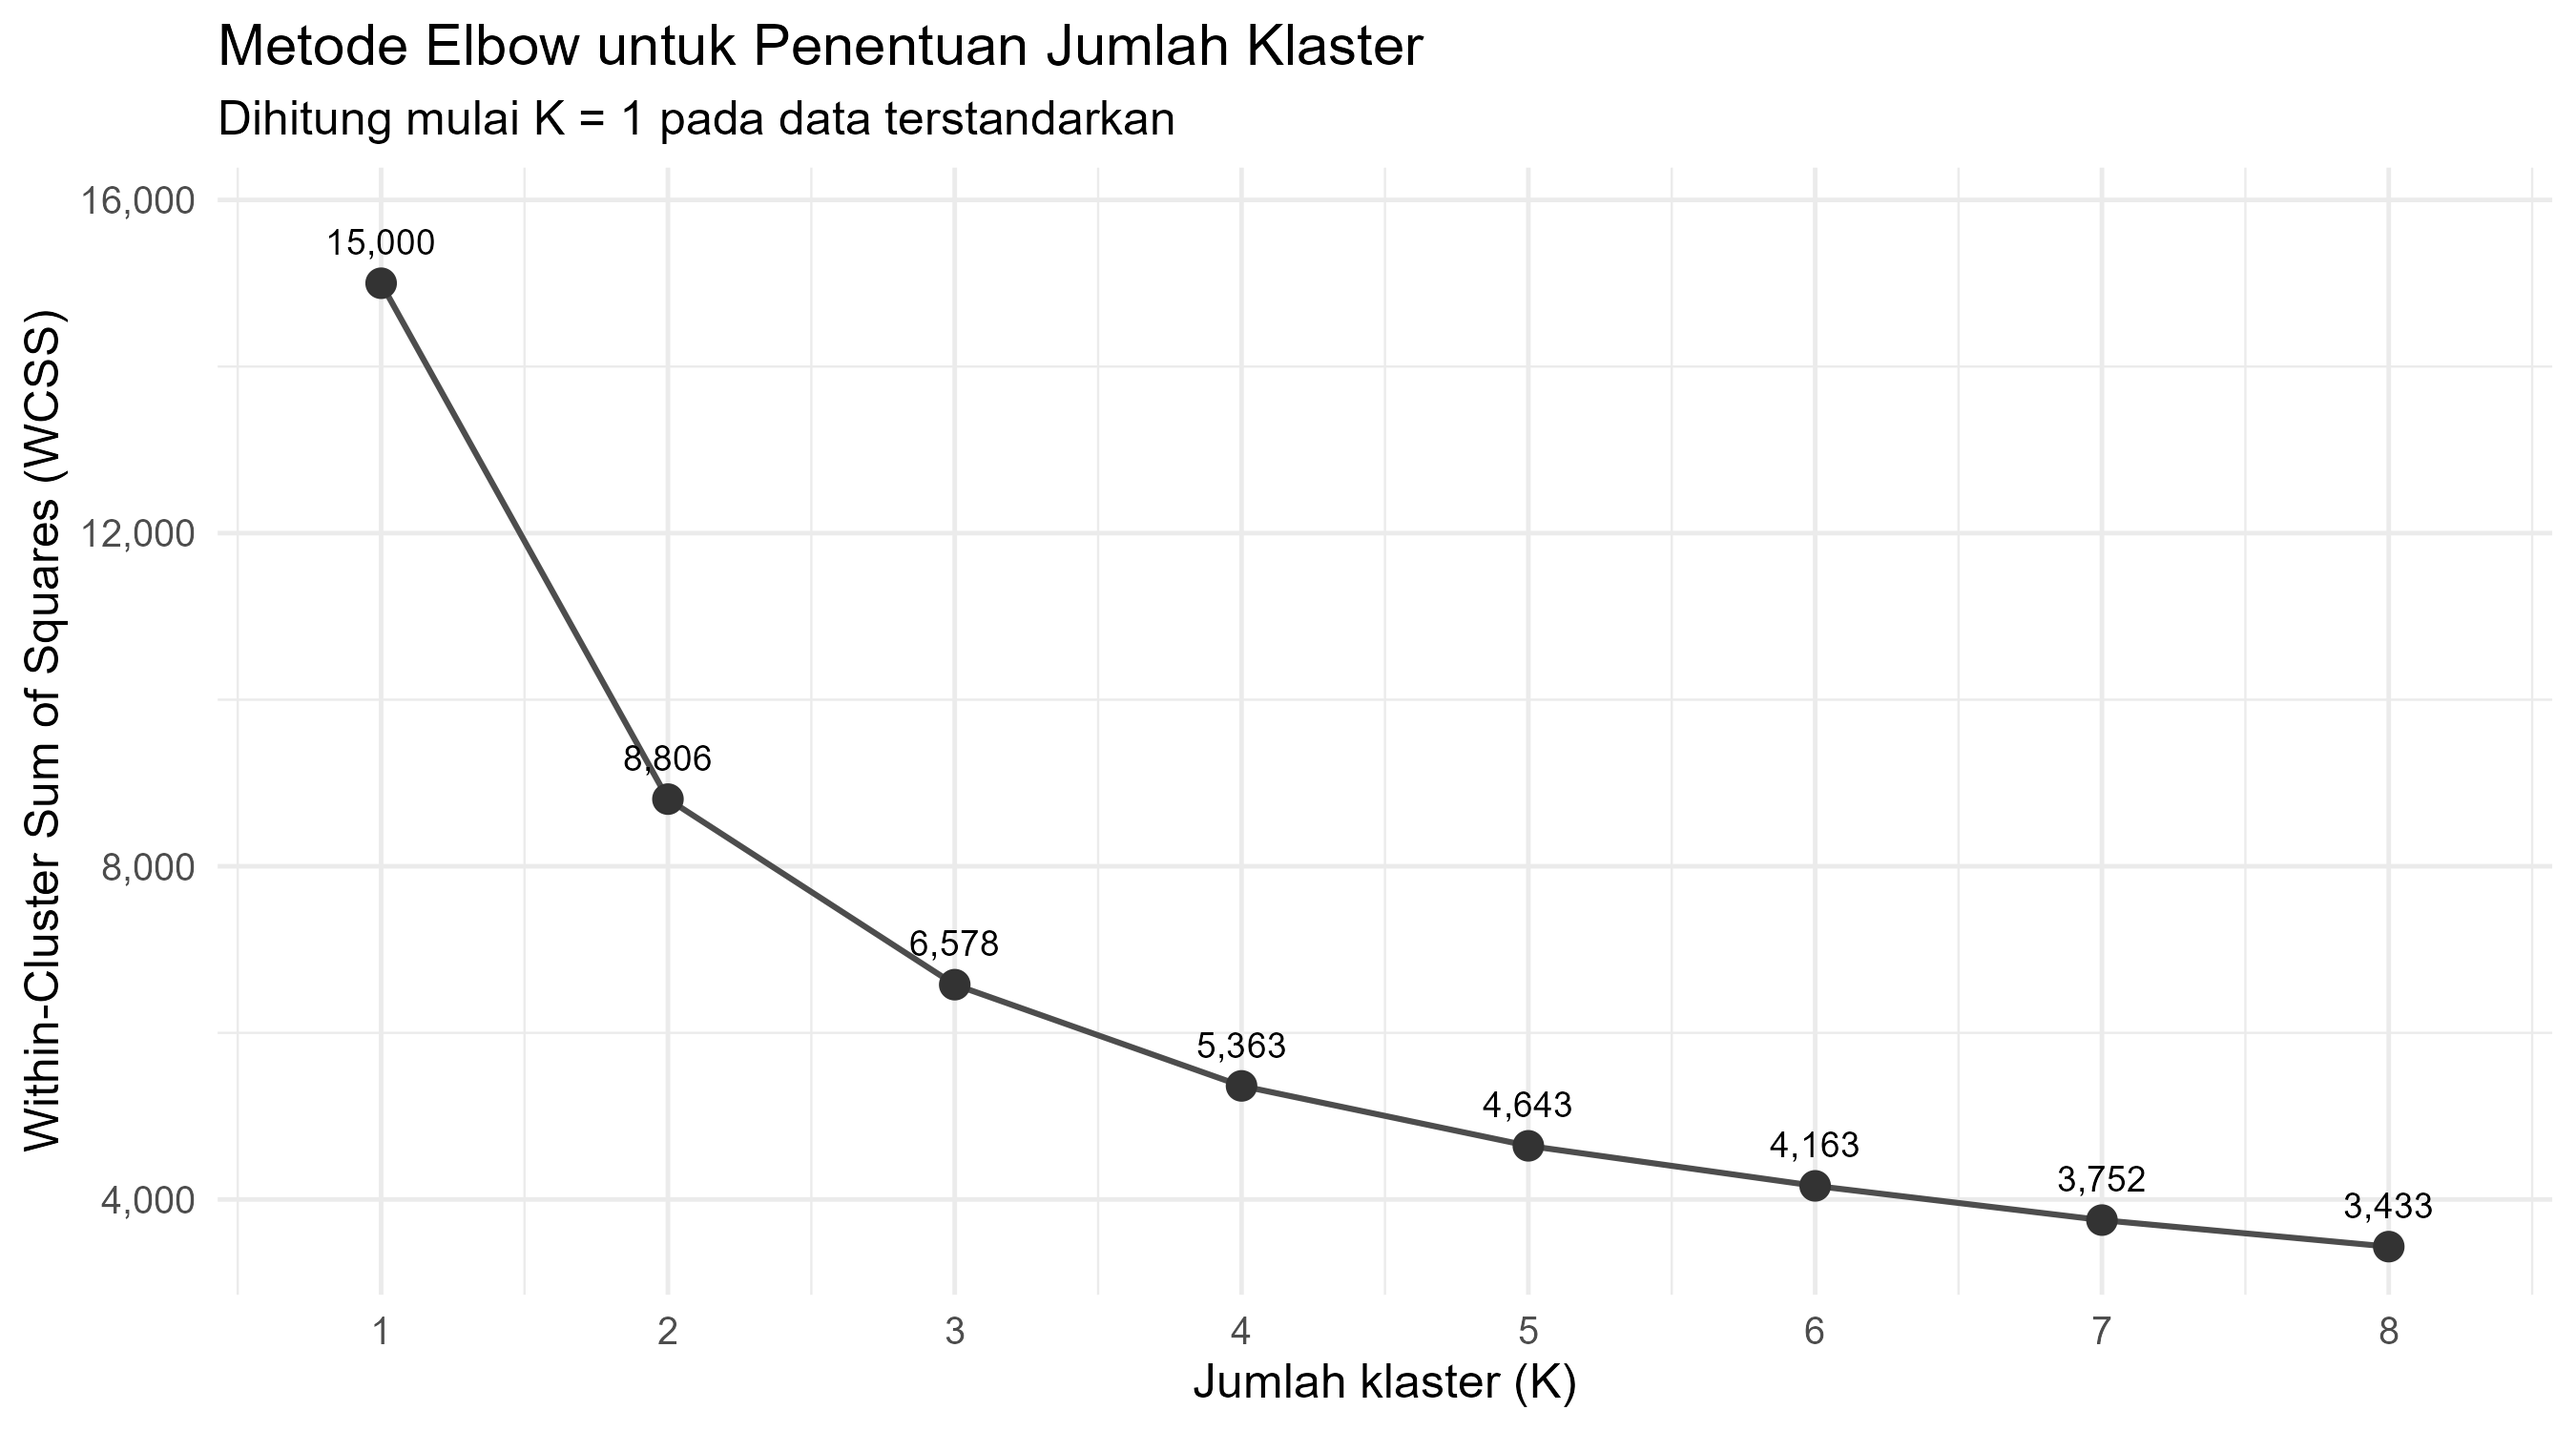
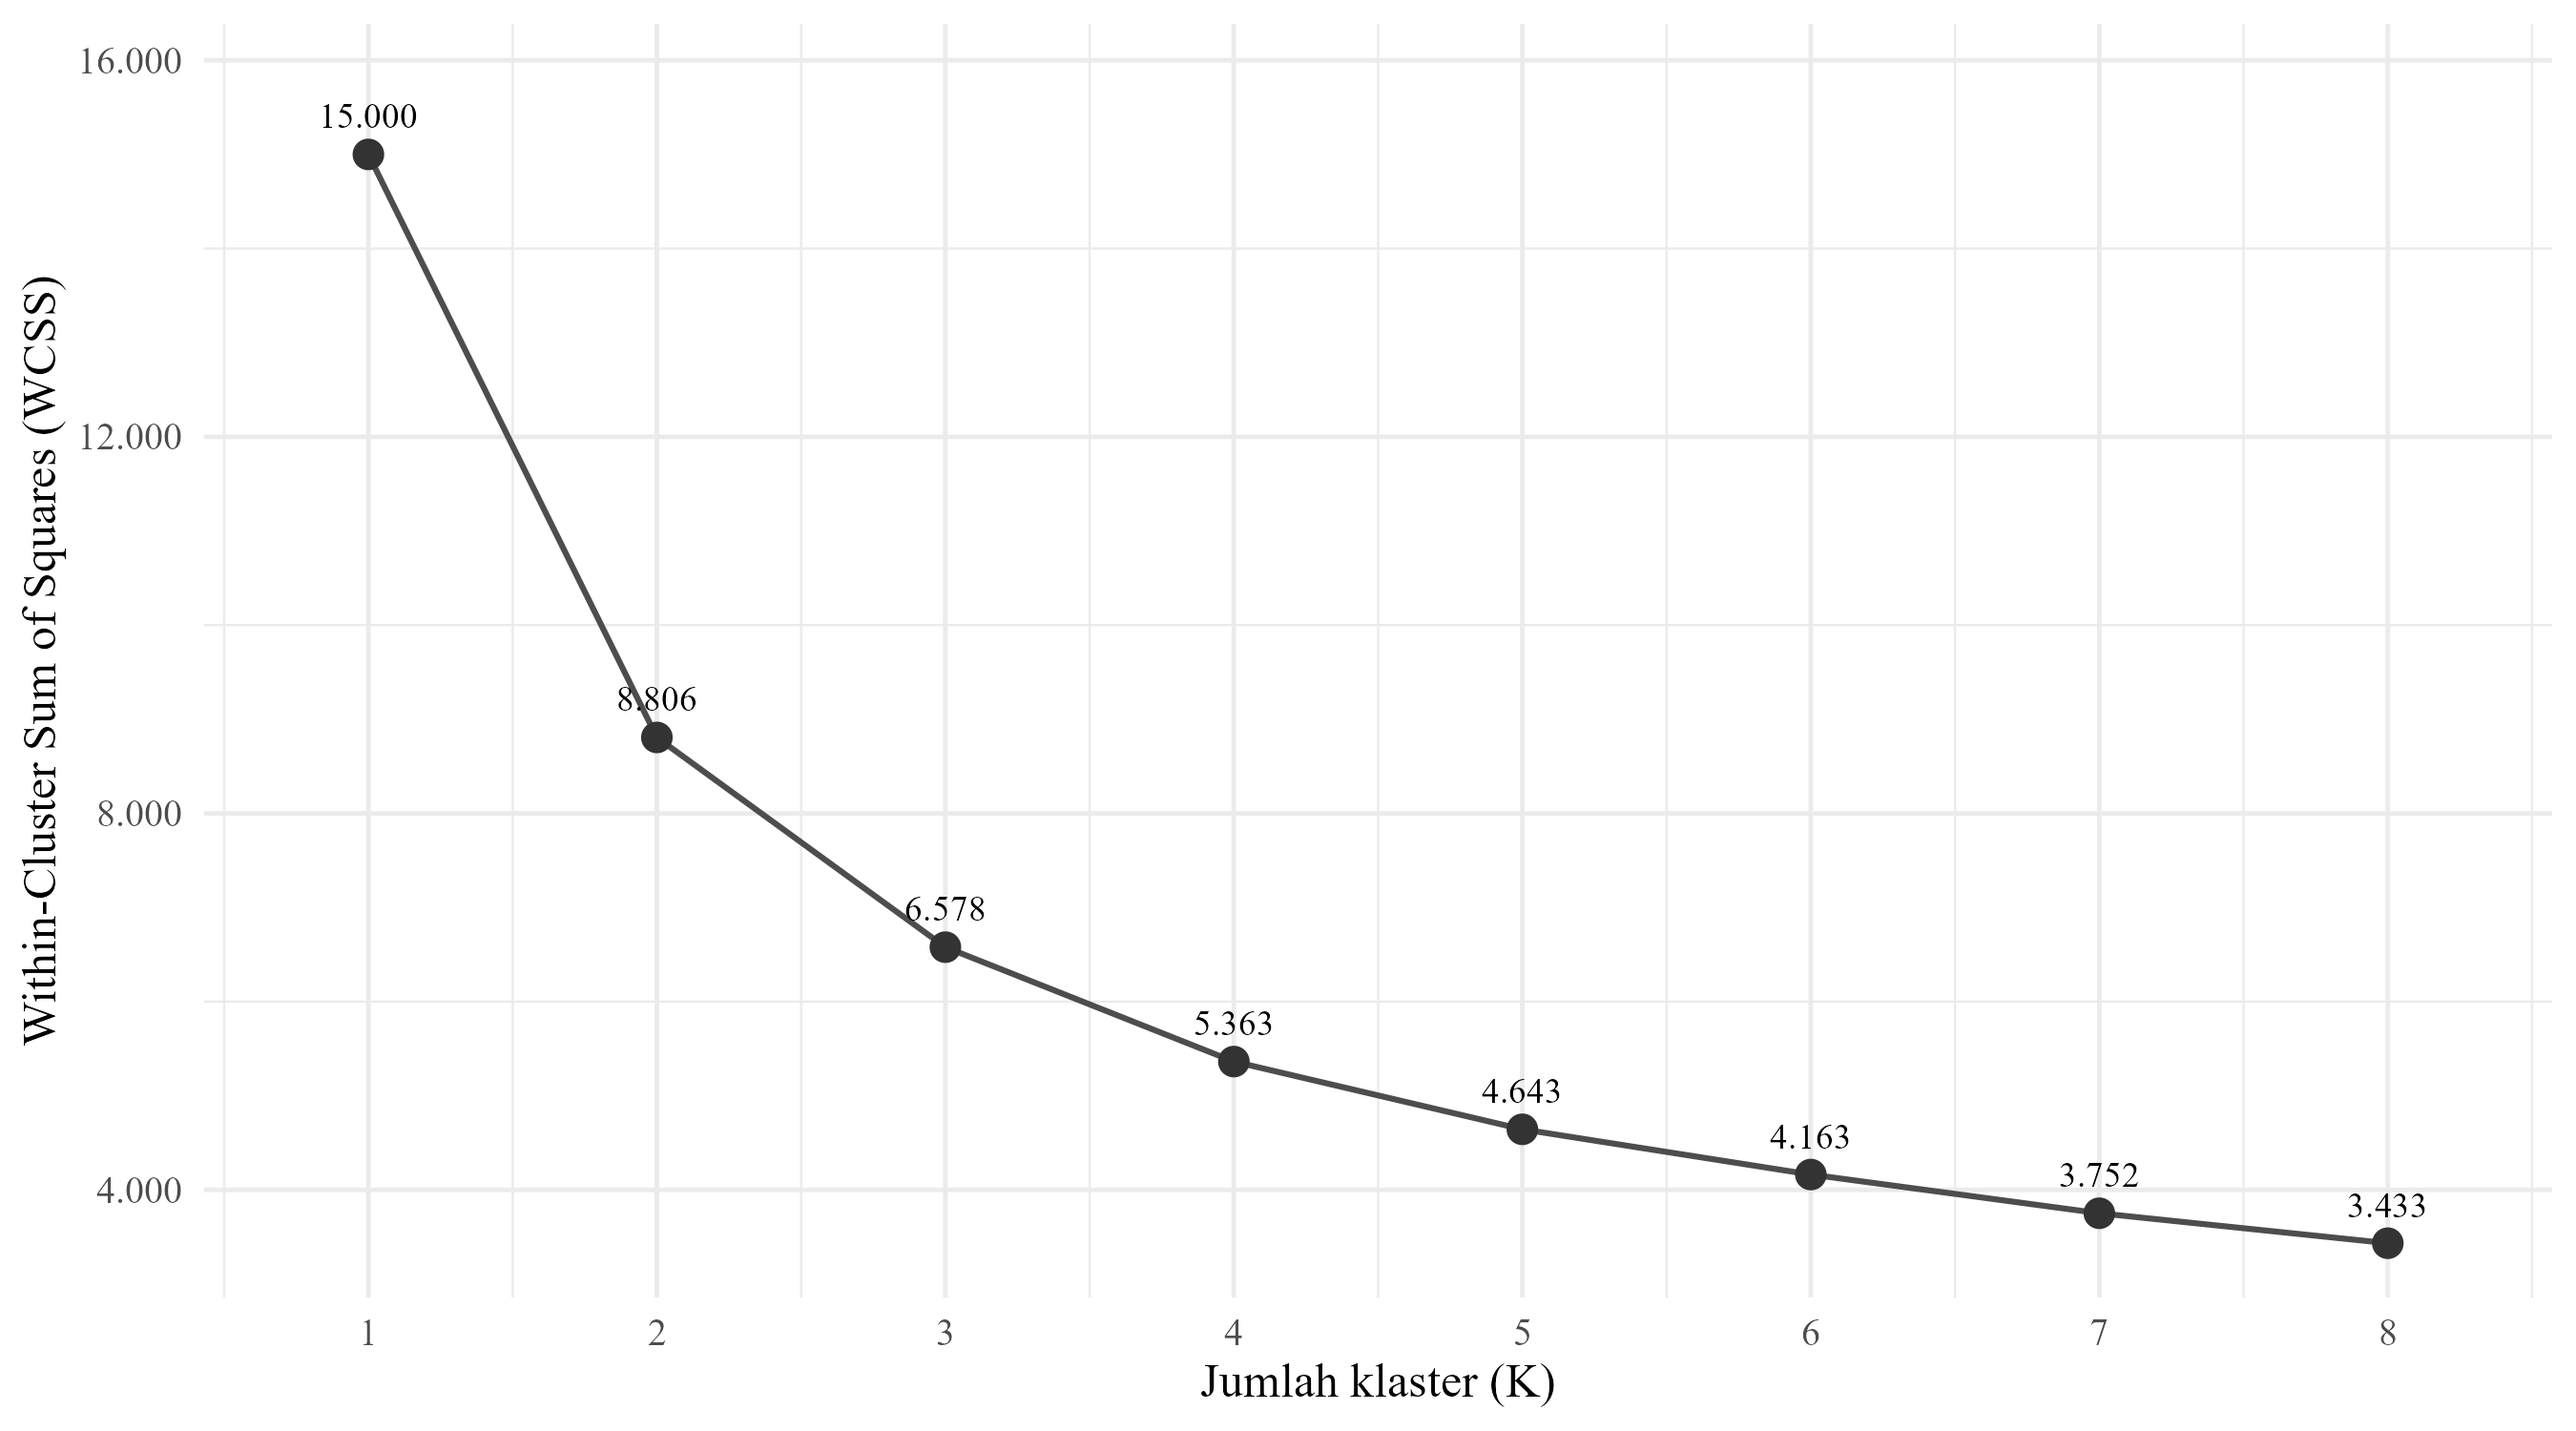
Tambah aset Gambar 7–16 hasil skrip R terbaru (PCA tanpa judul bawaan), skrip: title = NULL pada fviz_cluster
Claude-Session: https://claude.ai/code/session_019MUmaUoEzA2zvUCm4dnLNG

diff --git a/Draft TA Pasca SE.md b/Draft TA Pasca SE.md
@@ -1,6 +1,6 @@
 # KLASIFIKASI RUMAH TANGGA BERDASARKAN POLA KONSUMSI LISTRIK DAN KARAKTERISTIK SOSIAL EKONOMI DI DKI JAKARTA
 
-> **Catatan repo (bukan isi naskah).** Dokumen ini adalah naskah kerja versi Markdown dari Karya Ilmiah Tugas Akhir Rafli Hibriansyah Siregar, Politeknik Statistika STIS. Naskah resmi tetap dokumen `.docx`. Istilah mengikuti `Kamus_Istilah_Polstat_STIS.md` (Project TA). Gambar dan tabel dinomori berurutan lintas bab (Gambar 1, 2, …; Tabel 1, 2, …). Sebagian besar gambar belum tersimpan di repo; posisinya ditandai dengan kotak keterangan.
+> **Catatan repo (bukan isi naskah).** Dokumen ini adalah naskah kerja versi Markdown dari Karya Ilmiah Tugas Akhir Rafli Hibriansyah Siregar, Politeknik Statistika STIS. Naskah resmi tetap dokumen `.docx`. Istilah mengikuti `Kamus_Istilah_Polstat_STIS.md` (Project TA). Gambar dan tabel dinomori berurutan lintas bab (Gambar 1, 2, …; Tabel 1, 2, …). Gambar 1–16 tersimpan di folder `assets-ta`; logo STIS belum tersimpan.
 
 ---
 
@@ -984,7 +984,7 @@ Klaster 1 mencakup 3.329 rumah tangga sampel yang mewakili sekitar 1.744.440 rum
 
 Perbedaan paling mencolok terletak pada konsumsi listrik. Rata-rata konsumsi Klaster 2 sebesar 645,34 kWh per bulan, yaitu sekitar 3,46 kali rata-rata Klaster 1 yang sebesar 186,61 kWh per bulan. Perbedaan tersebut bertahan ketika konsumsi dihitung per anggota rumah tangga: 198,88 kWh per kapita pada Klaster 2 berbanding 60,08 kWh per kapita pada Klaster 1, atau sekitar 3,31 kali. Kesenjangan konsumsi antara kedua klaster karena itu tidak dapat dijelaskan oleh perbedaan jumlah penghuni, melainkan oleh perbedaan intensitas penggunaan listrik per orang. Pada kedua klaster, nilai rata-rata tetap berada di atas mediannya, yang menunjukkan bahwa kemencengan sebaran ke kanan tidak hilang oleh pengelompokan, melainkan tetap ada di dalam masing-masing kelompok.
 
-> **[Posisi Gambar 12]** Gambar belum tersimpan di repo.
+![Gambar 12 Rata-Rata Konsumsi Listrik Rumah Tangga menurut Klaster](assets-ta/gambar-12-rata-rata-konsumsi-klaster.png)
 <!-- keluaran R: gambar-12-rata-rata-konsumsi-klaster.png -->
 
 **Gambar 12 Rata-Rata Konsumsi Listrik Rumah Tangga menurut Klaster**
@@ -993,7 +993,7 @@ Sumber: Susenas Maret 2025, diolah.
 
 Perbedaan konsumsi listrik tersebut tidak berbanding lurus dengan perbedaan pengeluaran listriknya. Rata-rata pengeluaran listrik Klaster 2 sebesar Rp789.474 per bulan, yaitu sekitar 4,38 kali rata-rata Klaster 1 yang sebesar Rp180.146 per bulan, sedangkan rasio konsumsinya hanya 3,46 kali. Selisih kedua rasio tersebut merupakan konsekuensi langsung dari struktur tarif tenaga listrik yang berjenjang menurut golongan daya terpasang: rumah tangga Klaster 2 sebagian besar berada pada golongan daya 1.300 VA ke atas (Tabel 8), sehingga membayar tarif per kWh yang lebih tinggi daripada rumah tangga bersubsidi. Temuan ini sekaligus menunjukkan bahwa penggunaan tarif berjenjang dalam konversi pengeluaran menjadi kWh memang diperlukan; penggunaan satu tarif rata-rata akan membuat konsumsi listrik hasil konversi menjadi kelipatan tetap dari pengeluaran listrik sehingga kedua rasio tersebut dipaksa sama.
 
-> **[Posisi Gambar 13]** Gambar belum tersimpan di repo.
+![Gambar 13 Sebaran Konsumsi Listrik Rumah Tangga menurut Klaster](assets-ta/gambar-13-sebaran-konsumsi-klaster.png)
 <!-- keluaran R: gambar-13-sebaran-konsumsi-klaster.png -->
 
 **Gambar 13 Sebaran Konsumsi Listrik Rumah Tangga menurut Klaster**
@@ -1002,7 +1002,7 @@ Sumber: Susenas Maret 2025, diolah. Deretan titik mendatar pada nilai tertinggi 
 
 Kesenjangan yang serupa terlihat pada kapasitas ekonomi rumah tangga. Rata-rata pengeluaran nonmakanan selain listrik pada Klaster 2 sebesar Rp10.821.847 per bulan, yaitu sekitar 4,31 kali rata-rata Klaster 1 yang sebesar Rp2.509.606 per bulan. Meskipun demikian, pangsa pengeluaran listrik terhadap pengeluaran nonmakanan pada kedua kelompok hampir sama, yaitu 7,05 persen pada Klaster 1 dan 7,63 persen pada Klaster 2. Kedua angka tersebut memberi arti penting bagi penafsiran: perbedaan antara kedua klaster bukan terletak pada porsi anggaran yang dialokasikan untuk listrik, melainkan pada besaran anggaran itu sendiri. Rumah tangga pada kedua kelompok membelanjakan bagian yang kurang lebih sebanding dari pengeluaran nonmakanannya untuk listrik, tetapi bekerja pada skala anggaran yang berbeda jauh.
 
-> **[Posisi Gambar 14]** Gambar belum tersimpan di repo.
+![Gambar 14 Pengeluaran Nonmakanan selain Listrik dan Konsumsi Listrik menurut Klaster](assets-ta/gambar-14-nonmakanan-konsumsi-klaster.png)
 <!-- keluaran R: gambar-14-nonmakanan-konsumsi-klaster.png -->
 
 **Gambar 14 Pengeluaran Nonmakanan selain Listrik dan Konsumsi Listrik menurut Klaster**
@@ -1011,7 +1011,7 @@ Sumber: Susenas Maret 2025, diolah. Deretan titik pada tepi grafik merupakan aki
 
 Lama sekolah KRT bergerak searah dengan kedua indikator di atas. Rata-rata lama sekolah KRT pada Klaster 1 sebesar 9,83 tahun, sedangkan pada Klaster 2 sebesar 13,74 tahun, sehingga selisihnya mencapai 3,90 tahun. Secara jenjang, rata-rata Klaster 1 berada di sekitar tamat sekolah menengah pertama, sementara rata-rata Klaster 2 telah melampaui tamat sekolah menengah atas. Komposisi kategori pendidikannya memperjelas perbedaan tersebut, sebagaimana terlihat pada Gambar 15: pada Klaster 1, kepala rumah tangga berpendidikan menengah merupakan kelompok terbesar dan kepala rumah tangga berpendidikan tinggi hanya sebagian kecil, sedangkan pada Klaster 2 kepala rumah tangga berpendidikan tinggi merupakan kelompok terbesar dan kepala rumah tangga berpendidikan rendah nyaris tidak ada. Dengan demikian, ketiga variabel pembentuk klaster bergerak ke arah yang sama, dan pengelompokan yang dihasilkan mencerminkan satu sumbu tingkat konsumsi listrik dan sosial ekonomi sebagaimana telah disimpulkan dari muatan komponen utama pada Tabel 6.
 
-> **[Posisi Gambar 15]** Gambar belum tersimpan di repo.
+![Gambar 15 Komposisi Pendidikan Kepala Rumah Tangga menurut Klaster](assets-ta/gambar-15-pendidikan-krt-klaster.png)
 <!-- keluaran R: gambar-15-pendidikan-krt-klaster.png -->
 
 **Gambar 15 Komposisi Pendidikan Kepala Rumah Tangga menurut Klaster**
@@ -1047,7 +1047,7 @@ Catatan: seluruh persentase dihitung dengan penimbang rumah tangga; median luas 
 
 Perbedaan terbesar muncul pada luas lantai dan kepemilikan AC. Rata-rata luas lantai Klaster 2 mencapai dua setengah kali rata-rata Klaster 1, dengan selisih sekitar 64 m², sedangkan mediannya berselisih 50 m². Kedua ukuran pemusatan bergerak searah, sehingga selisih ini tidak dapat dijelaskan oleh segelintir rumah tangga berhunian sangat luas. Nilai luas lantai yang dipakai merupakan hasil *winsorizing* pada persentil ke-1 dan ke-99. Pada kepemilikan AC, selisihnya mencapai 59 poin persentase: tiga dari empat rumah tangga Klaster 2 memiliki AC, sedangkan pada Klaster 1 kepemilikan AC merupakan pengecualian dan hanya dijumpai pada kurang dari seperlima rumah tangga. Sebaran ini disajikan pada Gambar 16.
 
-> **[Posisi Gambar 16]** Gambar belum tersimpan di repo.
+![Gambar 16 Proporsi Kepemilikan AC menurut Klaster](assets-ta/gambar-16-kepemilikan-ac-klaster.png)
 <!-- keluaran R: gambar-16-kepemilikan-ac-klaster.png -->
 
 **Gambar 16 Proporsi Kepemilikan AC menurut Klaster**
